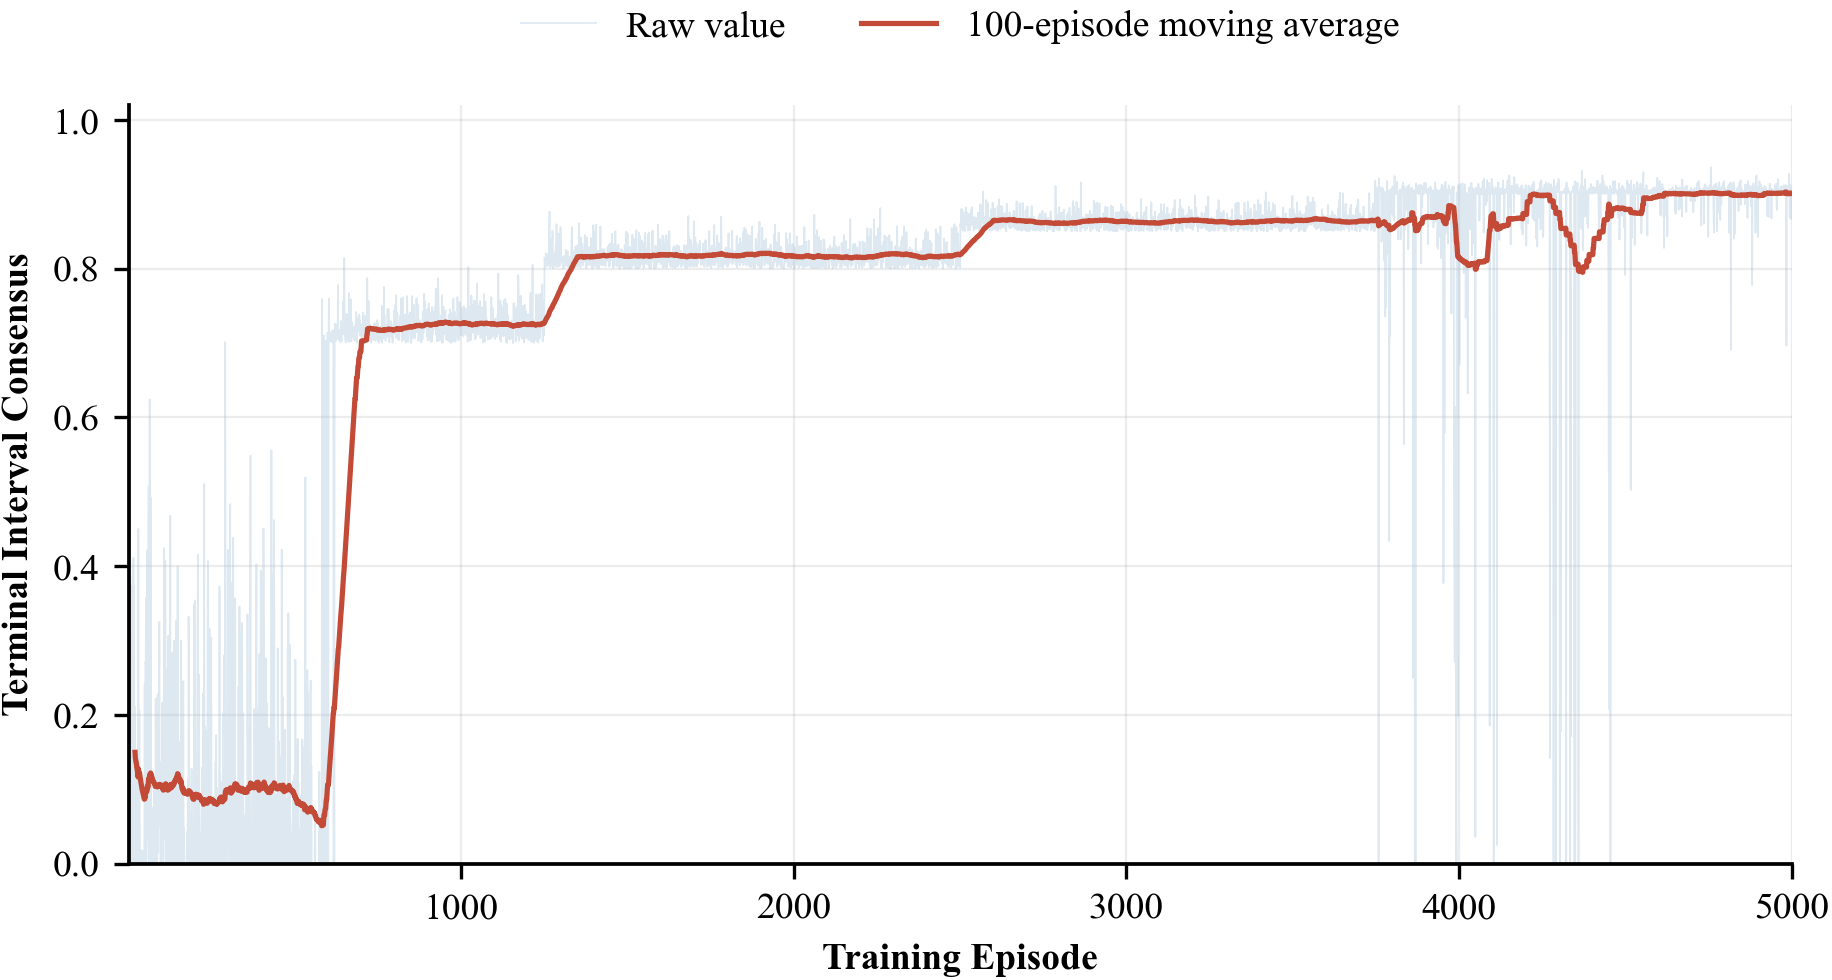
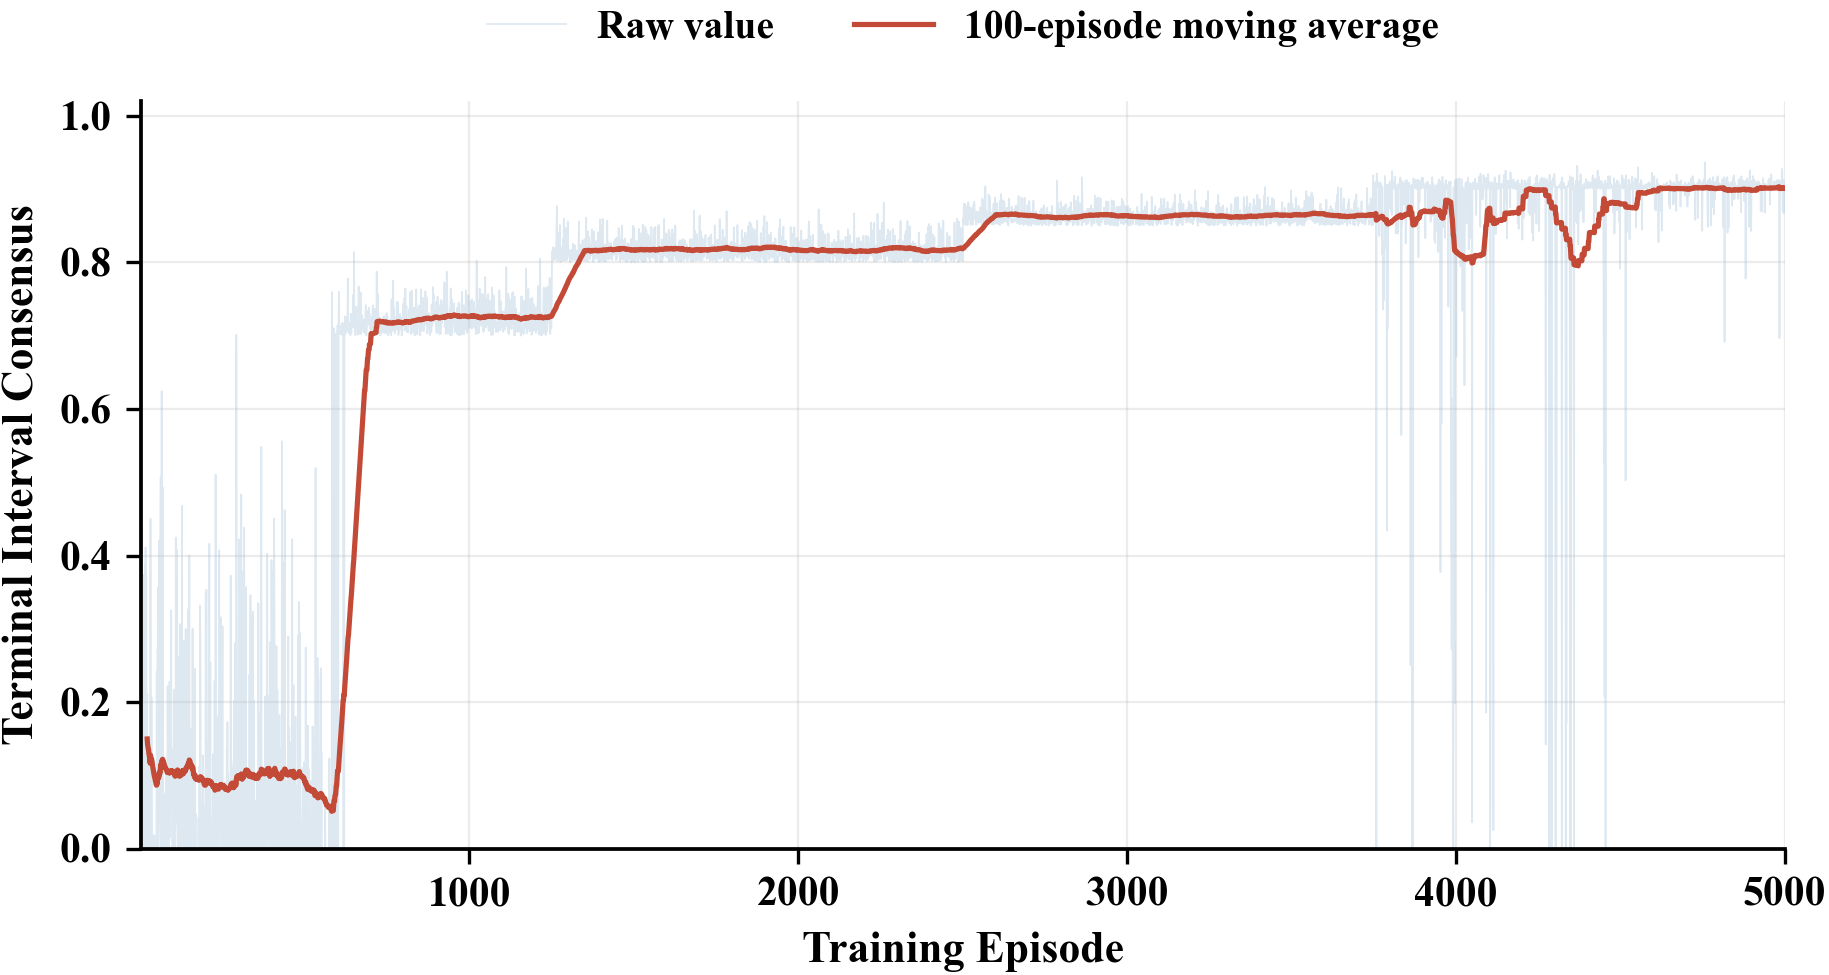
Improve paper figure legibility

diff --git a/scripts/generate_paper_figures.py b/scripts/generate_paper_figures.py
@@ -31,7 +31,12 @@ def setup_style() -> None:
         {
             "font.family": "serif",
             "font.serif": ["Times New Roman", "DejaVu Serif"],
-            "font.size": 9.0,
+            "font.size": 10.5,
+            "font.weight": "semibold",
+            "axes.titleweight": "bold",
+            "xtick.labelsize": 10.0,
+            "ytick.labelsize": 10.0,
+            "legend.fontsize": 9.5,
             "axes.labelweight": "bold",
             "axes.labelcolor": "black",
             "axes.edgecolor": "black",
